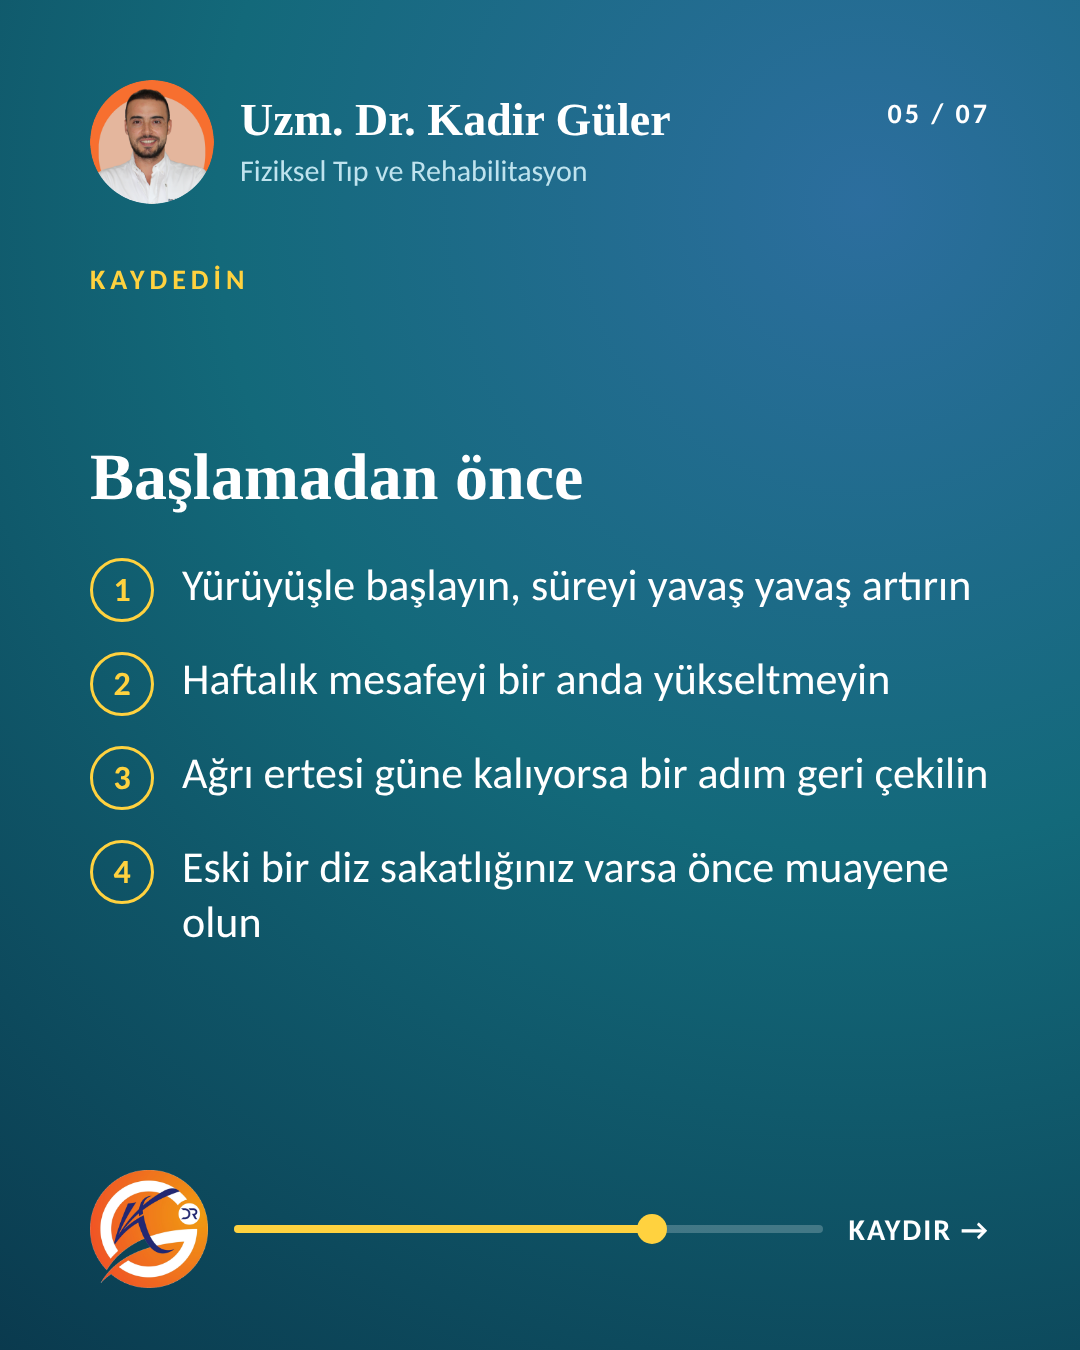
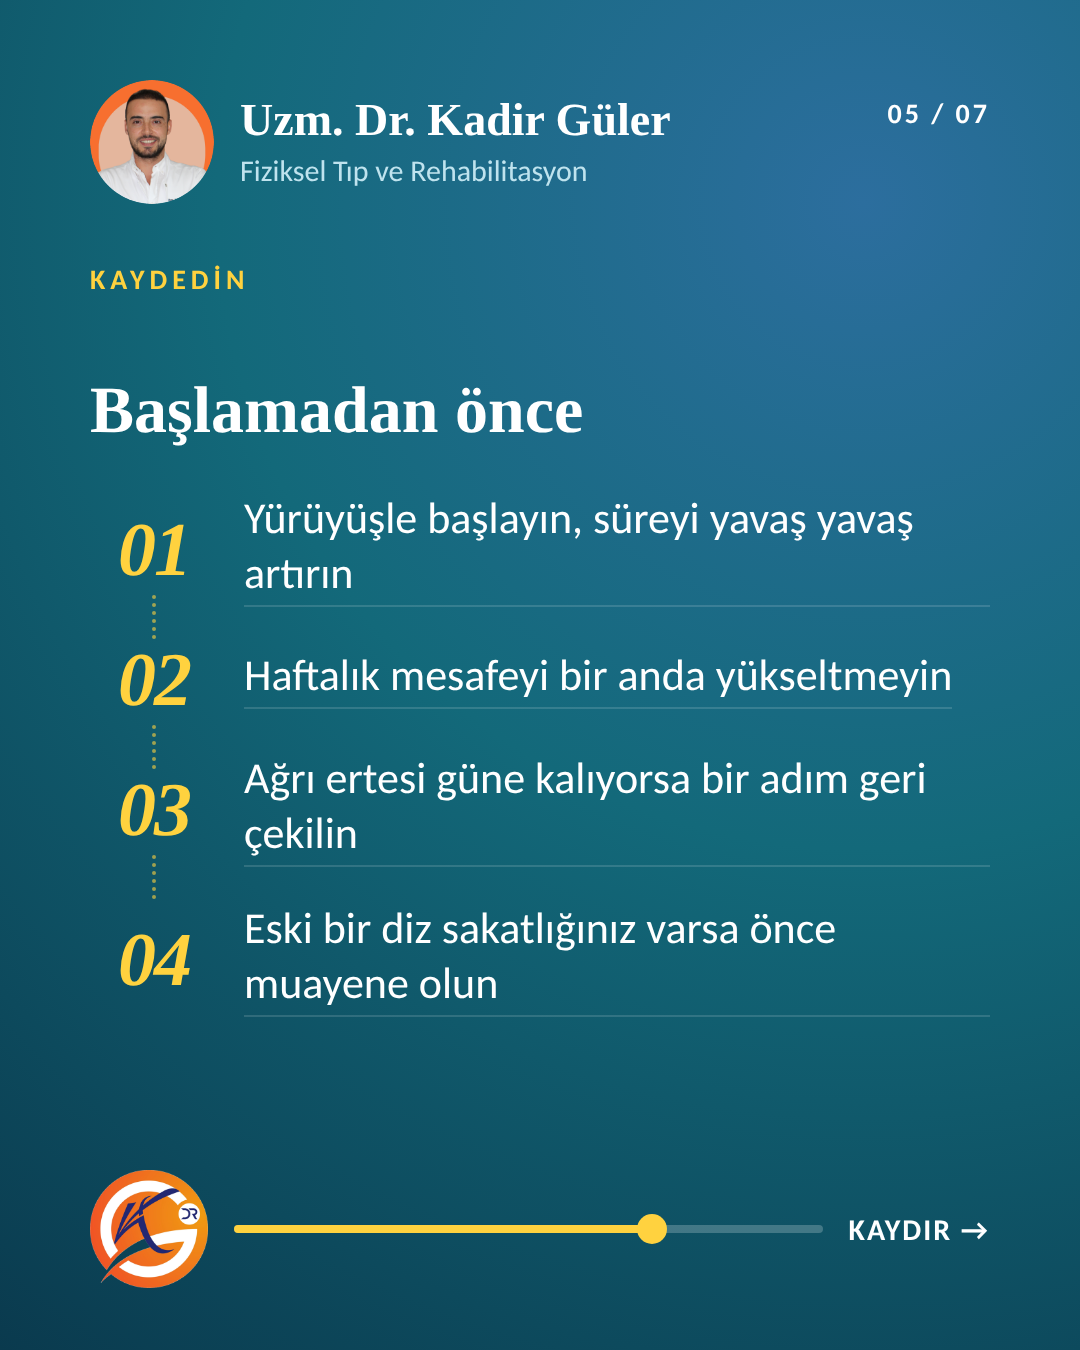
Koşu/diz: gönderin ifadesi, rota tarzı liste numaraları (list_style: rota)
Claude-Session: https://claude.ai/code/session_01TEYSN5MrfjCwvKLB7AvwJz

Changed region(s): [[0.0611, 0.28, 0.9167, 0.7467]]

diff --git a/sablon/build_v2.py b/sablon/build_v2.py
@@ -108,8 +108,12 @@ def slide_html(i, n, s, th, spec_dir):
 <div class="txt cover">{s.get("text","")}</div>'''
         block = f'<div class="blk col">{body}</div>'
     elif "items" in s:  # liste slaytı
-        lis = "".join(f'<li><span class="num">{k}</span><span>{t}</span></li>' for k, t in enumerate(s["items"], 1))
-        block = f'<div class="blk col"><div class="ltitle">{s.get("title","")}</div><ul>{lis}</ul></div>'
+        if s.get("list_style") == "rota":  # kesik çizgili rota üzerinde büyük serif numaralar
+            lis = "".join(f'<li class="rli"><span class="rnum">{k:02d}</span><span class="rtx">{t}</span></li>' for k, t in enumerate(s["items"], 1))
+            block = f'<div class="blk col"><div class="ltitle">{s.get("title","")}</div><ul class="rota">{lis}</ul></div>'
+        else:
+            lis = "".join(f'<li><span class="num">{k}</span><span>{t}</span></li>' for k, t in enumerate(s["items"], 1))
+            block = f'<div class="blk col"><div class="ltitle">{s.get("title","")}</div><ul>{lis}</ul></div>'
     else:
         big = s.get("big", False)
         block = f'<div class="blk"><div class="bar"></div><div class="txt" style="font-size:{96 if big else 66}px">{s["text"]}</div></div>'
@@ -138,6 +142,11 @@ body{{width:1080px;height:1350px;font-family:{SERIF};color:#fff;background:{th["
 ul{{list-style:none;display:flex;flex-direction:column;gap:30px}}
 li{{display:flex;gap:28px;align-items:flex-start;font-family:{SANS};font-size:44px;line-height:1.25}}
 .num{{flex:0 0 64px;height:64px;border-radius:50%;border:3px solid {acc};color:{acc};font-weight:700;display:flex;align-items:center;justify-content:center;font-size:34px}}
+ul.rota{{position:relative;gap:34px;padding-left:4px}}
+li.rli{{align-items:center;gap:30px}}
+.rnum{{flex:0 0 120px;position:relative;z-index:1;font-family:{SERIF};font-style:italic;font-weight:700;font-size:76px;line-height:1;color:{acc};text-align:center;letter-spacing:-2px}}
+li.rli:not(:last-child) .rnum:after{{content:"";position:absolute;left:58px;top:84px;height:44px;border-left:4px dotted {acc};opacity:.6}}
+.rtx{{padding-bottom:4px;border-bottom:2px solid rgba(255,255,255,.14)}}
 .ph{{position:absolute;right:60px;bottom:220px;width:340px;height:440px;object-fit:cover;border-radius:28px;box-shadow:0 18px 40px rgba(0,0,0,.35)}}
 .foot{{position:absolute;left:90px;right:90px;bottom:62px;display:flex;align-items:center;gap:26px;font-family:{SANS}}}
 .logo{{width:118px;height:118px}}
